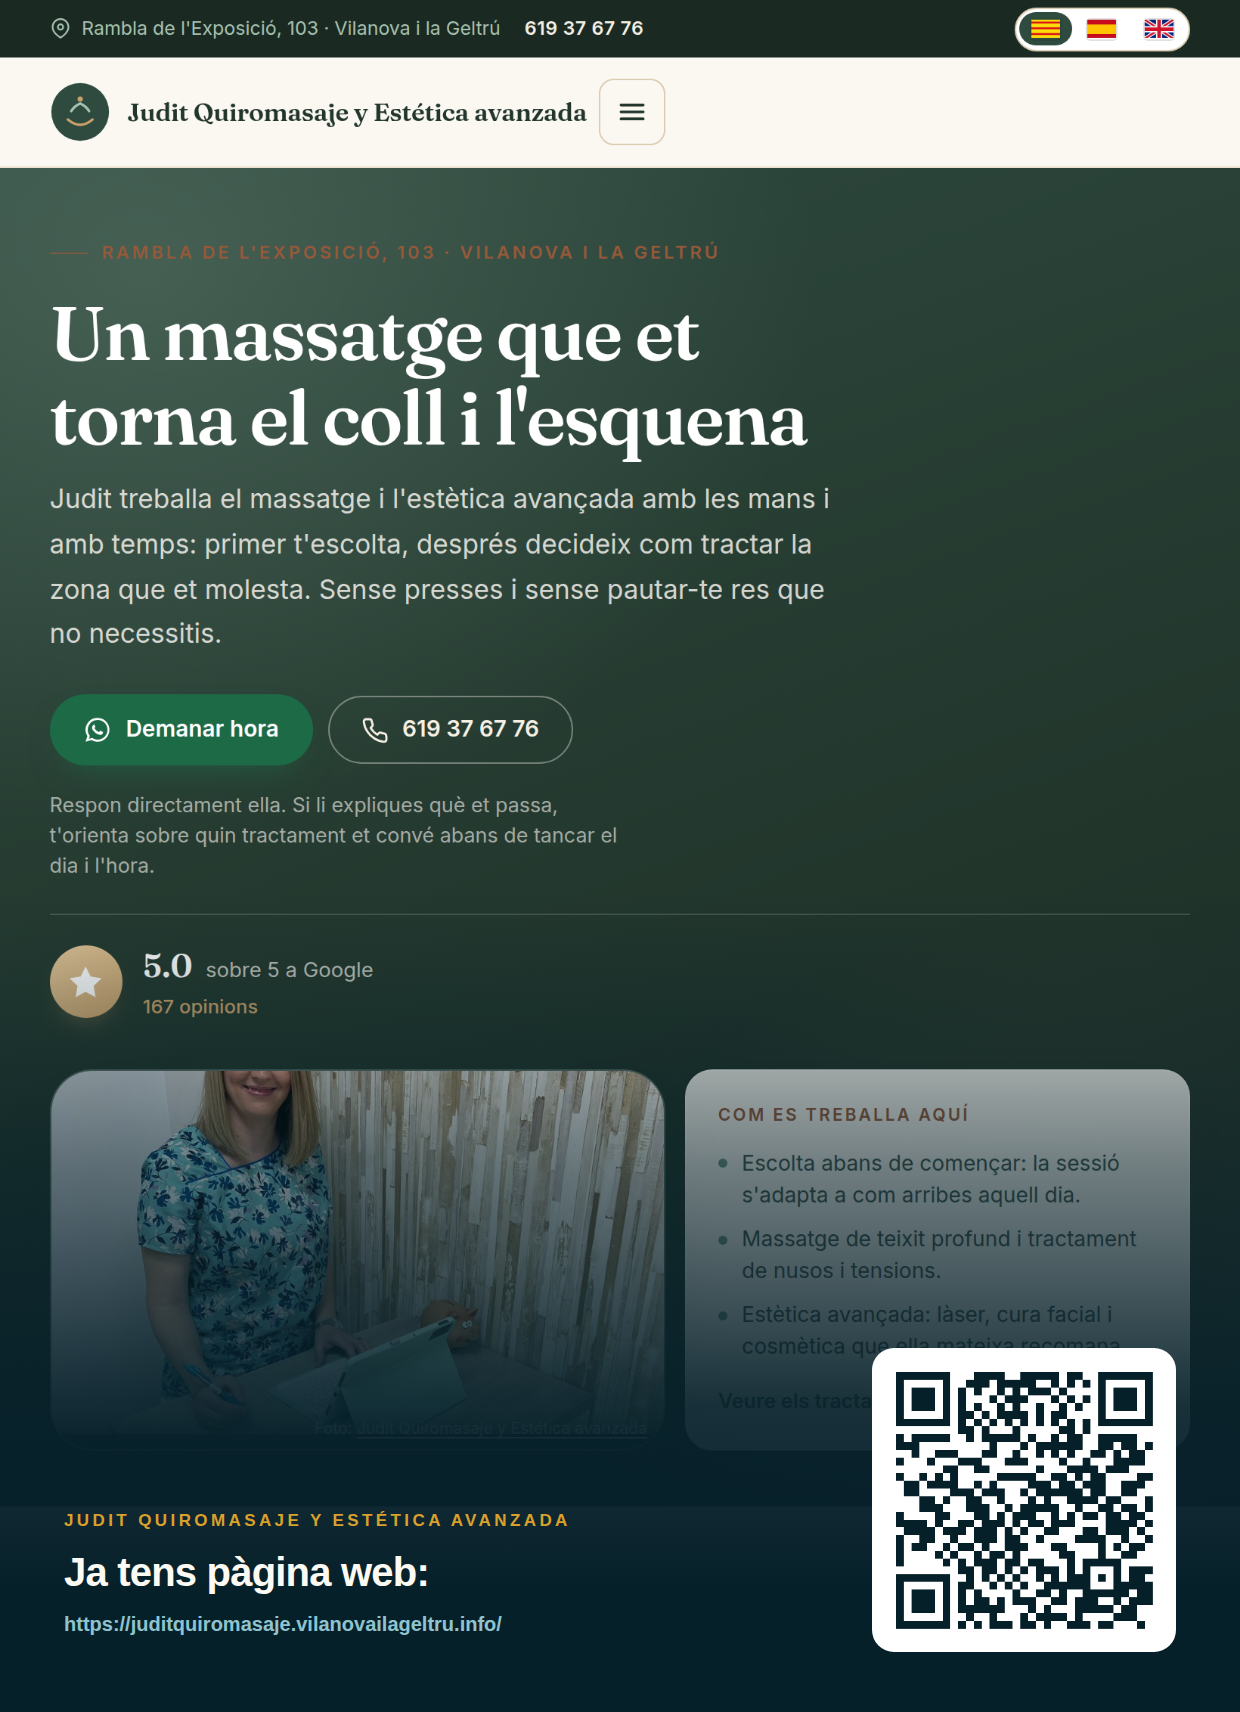
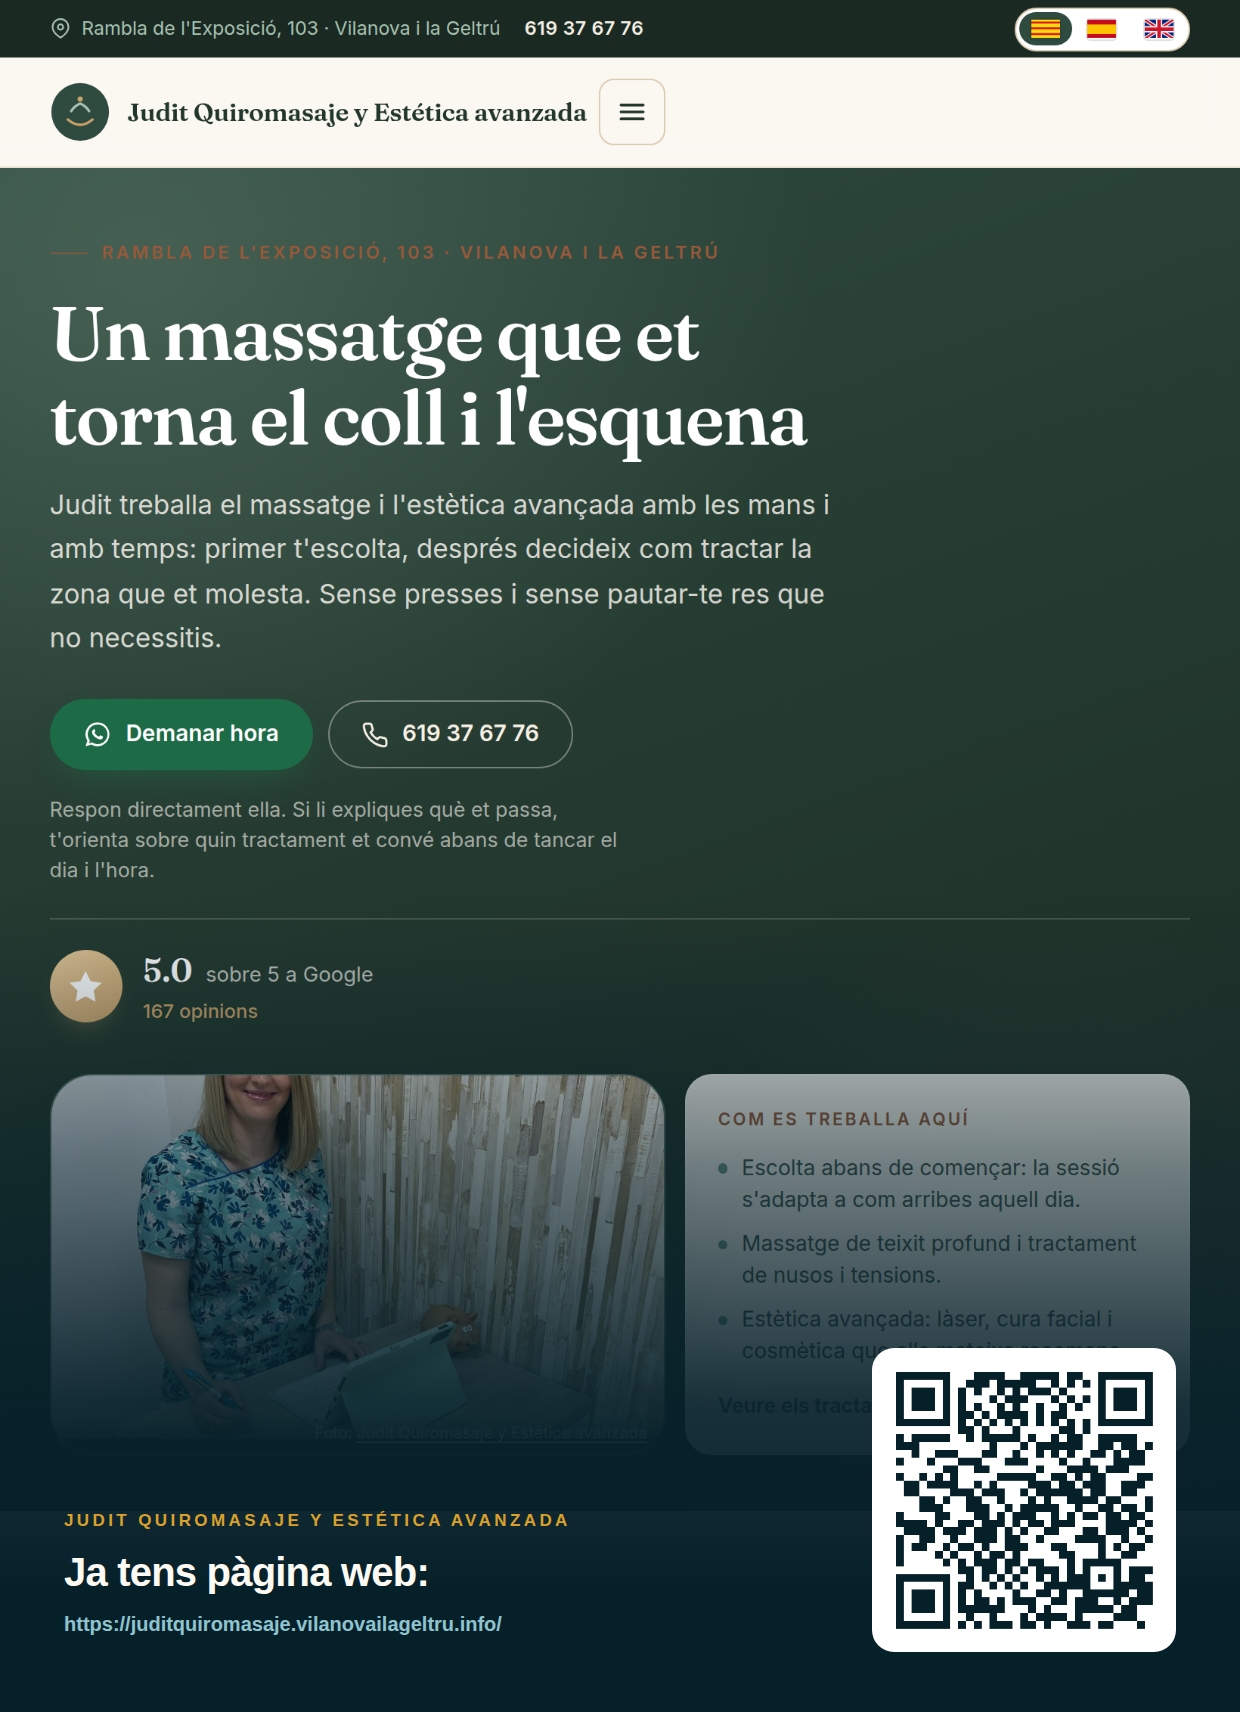
Ship the finished site: business-specific sections and content

diff --git a/index.html b/index.html
@@ -431,31 +431,31 @@
           <p>La fama li ve del boca a boca. Més de cent seixanta opinions i una mitjana de cinc sobre cinc no s&#39;aconsegueixen amb publicitat: s&#39;aconsegueixen quan la gent que surt millorada ho explica a la seva gent.</p>
         </div>
         <div class="reveal">
-          <dl class="stats">
+          <div class="stats">
             <div class="stat">
-              <dt class="stat__label">Nota mitjana</dt>
-              <dd class="stat__value">
+              <p class="stat__kicker">Nota mitjana</p>
+              <p class="stat__value">
                 5.0
                 <svg viewBox="0 0 24 24" fill="currentColor" aria-hidden="true"><path d="M12 2.6l2.9 5.9 6.5.95-4.7 4.6 1.1 6.45L12 17.4l-5.8 3.1 1.1-6.45-4.7-4.6 6.5-.95L12 2.6Z"/></svg>
-              </dd>
+              </p>
               <p class="stat__label">a Google, sense cap ressenya per sota</p>
             </div>
             <div class="stat">
-              <dt class="stat__label">Opinions</dt>
-              <dd class="stat__value">167</dd>
+              <p class="stat__kicker">Opinions</p>
+              <p class="stat__value">167</p>
               <p class="stat__label">de clientes i clients reals</p>
             </div>
             <div class="stat">
-              <dt class="stat__label">Especialitat</dt>
-              <dd class="stat__value stat__value--text">Massatge</dd>
+              <p class="stat__kicker">Especialitat</p>
+              <p class="stat__value stat__value--text">Massatge</p>
               <p class="stat__label">i estètica avançada</p>
             </div>
             <div class="stat">
-              <dt class="stat__label">On</dt>
-              <dd class="stat__value stat__value--text">Vilanova i la Geltrú</dd>
+              <p class="stat__kicker">On</p>
+              <p class="stat__value stat__value--text">Vilanova i la Geltrú</p>
               <p class="stat__label">Rambla de l&#39;Exposició, 103</p>
             </div>
-          </dl>
+          </div>
           <figure class="pull">
             <blockquote><p>«Des que la vaig conèixer, no vaig a cap altre lloc.»</p></blockquote>
             <figcaption>Clienta de l&#39;estudi, a Google</figcaption>

diff --git a/es/index.html b/es/index.html
@@ -431,31 +431,31 @@
           <p>La fama le viene del boca a boca. Más de ciento sesenta opiniones y una media de cinco sobre cinco no se consiguen con publicidad: se consiguen cuando la gente que sale mejorada lo cuenta a los suyos.</p>
         </div>
         <div class="reveal">
-          <dl class="stats">
+          <div class="stats">
             <div class="stat">
-              <dt class="stat__label">Nota media</dt>
-              <dd class="stat__value">
+              <p class="stat__kicker">Nota media</p>
+              <p class="stat__value">
                 5.0
                 <svg viewBox="0 0 24 24" fill="currentColor" aria-hidden="true"><path d="M12 2.6l2.9 5.9 6.5.95-4.7 4.6 1.1 6.45L12 17.4l-5.8 3.1 1.1-6.45-4.7-4.6 6.5-.95L12 2.6Z"/></svg>
-              </dd>
+              </p>
               <p class="stat__label">en Google, sin ninguna reseña por debajo</p>
             </div>
             <div class="stat">
-              <dt class="stat__label">Opiniones</dt>
-              <dd class="stat__value">167</dd>
+              <p class="stat__kicker">Opiniones</p>
+              <p class="stat__value">167</p>
               <p class="stat__label">de clientas y clientes reales</p>
             </div>
             <div class="stat">
-              <dt class="stat__label">Especialidad</dt>
-              <dd class="stat__value stat__value--text">Masaje</dd>
+              <p class="stat__kicker">Especialidad</p>
+              <p class="stat__value stat__value--text">Masaje</p>
               <p class="stat__label">y estética avanzada</p>
             </div>
             <div class="stat">
-              <dt class="stat__label">Dónde</dt>
-              <dd class="stat__value stat__value--text">Vilanova i la Geltrú</dd>
+              <p class="stat__kicker">Dónde</p>
+              <p class="stat__value stat__value--text">Vilanova i la Geltrú</p>
               <p class="stat__label">Rambla de l&#39;Exposició, 103</p>
             </div>
-          </dl>
+          </div>
           <figure class="pull">
             <blockquote><p>«Desde que la conocí, no voy a ningún otro sitio.»</p></blockquote>
             <figcaption>Clienta del estudio, en Google</figcaption>

diff --git a/en/index.html b/en/index.html
@@ -431,31 +431,31 @@
           <p>The reputation comes from word of mouth. More than a hundred and sixty reviews and an average of five out of five are not built with advertising: they happen when people who leave feeling better tell the people around them.</p>
         </div>
         <div class="reveal">
-          <dl class="stats">
+          <div class="stats">
             <div class="stat">
-              <dt class="stat__label">Average rating</dt>
-              <dd class="stat__value">
+              <p class="stat__kicker">Average rating</p>
+              <p class="stat__value">
                 5.0
                 <svg viewBox="0 0 24 24" fill="currentColor" aria-hidden="true"><path d="M12 2.6l2.9 5.9 6.5.95-4.7 4.6 1.1 6.45L12 17.4l-5.8 3.1 1.1-6.45-4.7-4.6 6.5-.95L12 2.6Z"/></svg>
-              </dd>
+              </p>
               <p class="stat__label">on Google, with no review below it</p>
             </div>
             <div class="stat">
-              <dt class="stat__label">Reviews</dt>
-              <dd class="stat__value">167</dd>
+              <p class="stat__kicker">Reviews</p>
+              <p class="stat__value">167</p>
               <p class="stat__label">from real clients</p>
             </div>
             <div class="stat">
-              <dt class="stat__label">Speciality</dt>
-              <dd class="stat__value stat__value--text">Massage</dd>
+              <p class="stat__kicker">Speciality</p>
+              <p class="stat__value stat__value--text">Massage</p>
               <p class="stat__label">and advanced aesthetics</p>
             </div>
             <div class="stat">
-              <dt class="stat__label">Where</dt>
-              <dd class="stat__value stat__value--text">Vilanova i la Geltrú</dd>
+              <p class="stat__kicker">Where</p>
+              <p class="stat__value stat__value--text">Vilanova i la Geltrú</p>
               <p class="stat__label">Rambla de l&#39;Exposició, 103</p>
             </div>
-          </dl>
+          </div>
           <figure class="pull">
             <blockquote><p>“Since I met her, I don&#39;t go anywhere else.”</p></blockquote>
             <figcaption>Studio client, on Google</figcaption>

diff --git a/src/template.html b/src/template.html
@@ -353,31 +353,31 @@
           <p>{{t.about.body2}}</p>
         </div>
         <div class="reveal">
-          <dl class="stats">
+          <div class="stats">
             <div class="stat">
-              <dt class="stat__label">{{t.about.statRatingLabel}}</dt>
-              <dd class="stat__value">
+              <p class="stat__kicker">{{t.about.statRatingLabel}}</p>
+              <p class="stat__value">
                 {{business.ratingFormatted}}
                 <svg viewBox="0 0 24 24" fill="currentColor" aria-hidden="true"><path d="M12 2.6l2.9 5.9 6.5.95-4.7 4.6 1.1 6.45L12 17.4l-5.8 3.1 1.1-6.45-4.7-4.6 6.5-.95L12 2.6Z"/></svg>
-              </dd>
+              </p>
               <p class="stat__label">{{t.about.statRating}}</p>
             </div>
             <div class="stat">
-              <dt class="stat__label">{{t.about.statReviewsLabel}}</dt>
-              <dd class="stat__value">{{business.ratingCount}}</dd>
+              <p class="stat__kicker">{{t.about.statReviewsLabel}}</p>
+              <p class="stat__value">{{business.ratingCount}}</p>
               <p class="stat__label">{{t.about.statReviews}}</p>
             </div>
             <div class="stat">
-              <dt class="stat__label">{{t.about.statTypeLabel}}</dt>
-              <dd class="stat__value stat__value--text">{{t.about.statTypeValue}}</dd>
+              <p class="stat__kicker">{{t.about.statTypeLabel}}</p>
+              <p class="stat__value stat__value--text">{{t.about.statTypeValue}}</p>
               <p class="stat__label">{{t.about.statType}}</p>
             </div>
             <div class="stat">
-              <dt class="stat__label">{{t.about.statPlaceLabel}}</dt>
-              <dd class="stat__value stat__value--text">{{business.cityShort}}</dd>
+              <p class="stat__kicker">{{t.about.statPlaceLabel}}</p>
+              <p class="stat__value stat__value--text">{{business.cityShort}}</p>
               <p class="stat__label">{{t.about.statPlace}}</p>
             </div>
-          </dl>
+          </div>
           <figure class="pull">
             <blockquote><p>{{t.about.pull}}</p></blockquote>
             <figcaption>{{t.about.pullAuthor}}</figcaption>

diff --git a/assets/css/styles.css b/assets/css/styles.css
@@ -460,6 +460,7 @@ ul, ol { margin: 0; padding: 0; list-style: none; }
   line-height: 1.1;
   letter-spacing: -.022em;
   margin-bottom: .7rem;
+  padding-block-end: .06em;
   color: #fff;
 }
 .hero__subtitle {
@@ -803,7 +804,7 @@ ul, ol { margin: 0; padding: 0; list-style: none; }
   color: var(--ink-mute);
   margin: .3rem 0 0;
 }
-.stat dt.stat__label {
+.stat__kicker {
   font-size: .68rem;
   letter-spacing: .1em;
   text-transform: uppercase;
